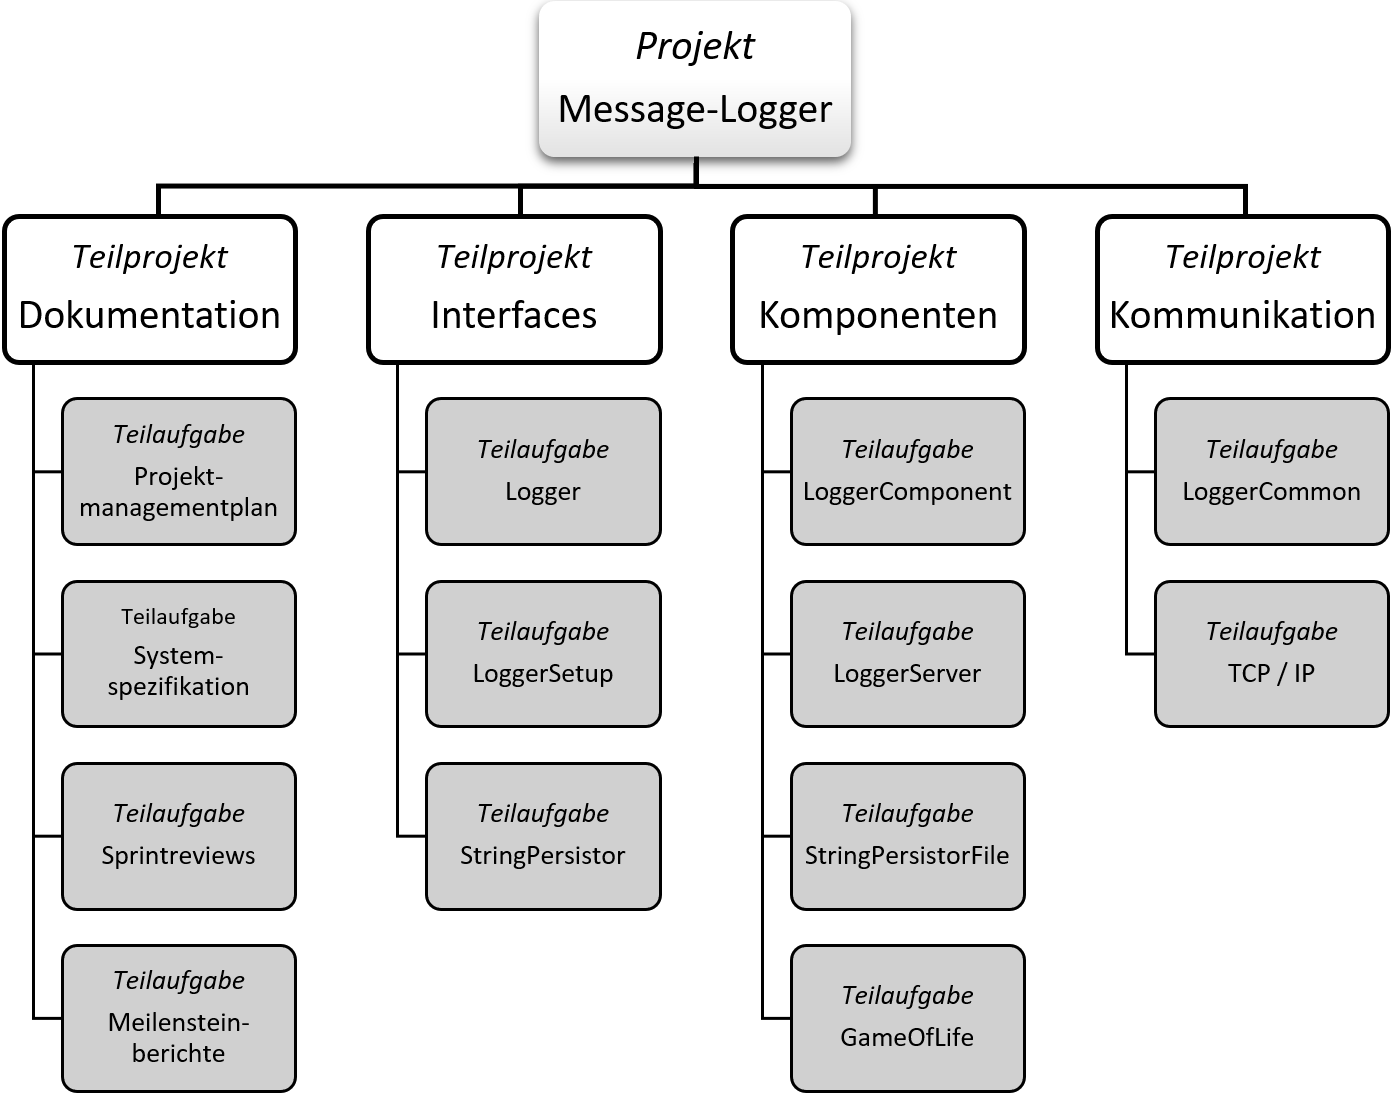
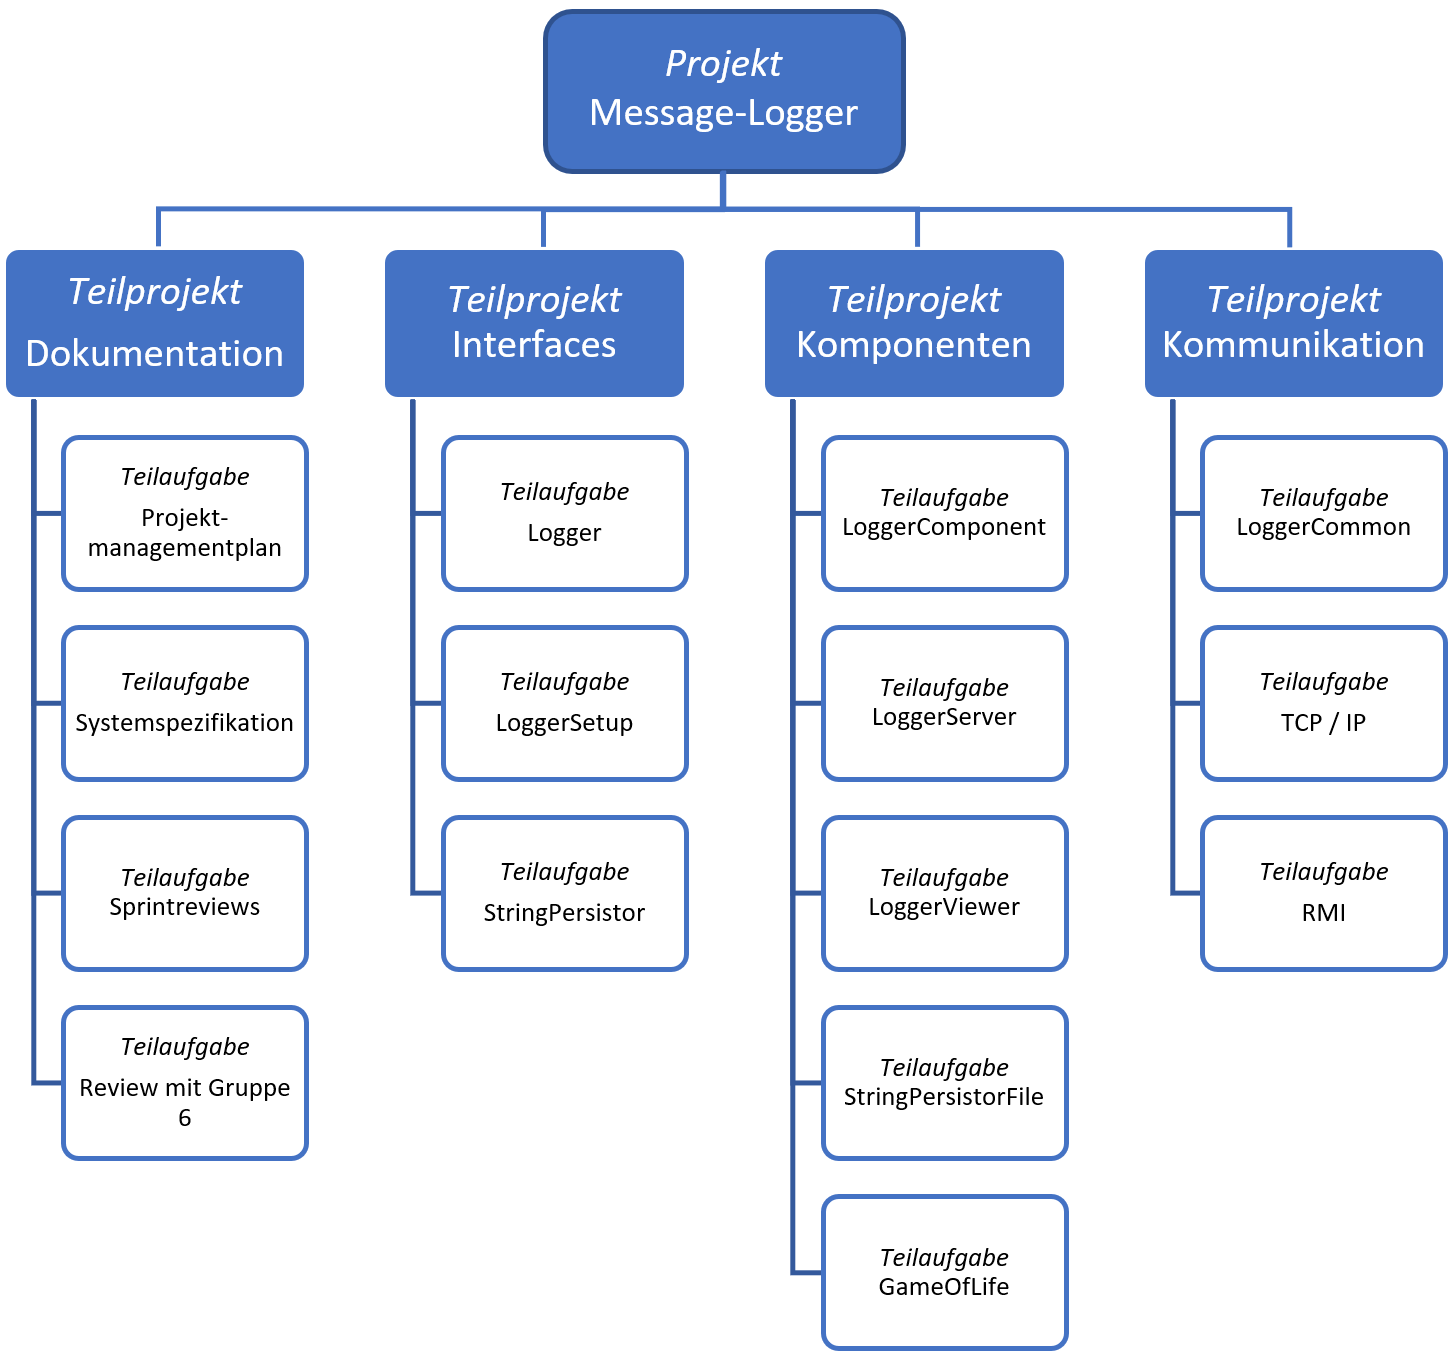
PMP und Scrum-Dokumente für Schlussabgabe verbessert

diff --git a/Projektmanagementplan/Projektmanagementplan.md b/Projektmanagementplan/Projektmanagementplan.md
@@ -4,11 +4,17 @@ subtitle: Version 1.0.0
 author: Gruppe 5 (Patrick Bucher, Pascal Kiser, Fabian Meyer, Sascha Sägesser)
 ---
 
+# TODOs
+
+- Evtl. Risikomanagement updaten
+- Aufwandschätzung Schlussabgabe einfügen
+- Releasemanagement für Release 2 vervollständigen
+
 # Projektorganisation
 
 ## Organisationsplan
 
-![Organigramm](img/Organigramm.png){#organigramm}
+![Organigramm](img/Organigramm.png){#organigramm width=50%}
 
 Siehe Abbildung [Organigramm](#organigramm).
 
@@ -45,20 +51,17 @@ Das komplette Projekt ist in drei Meilensteine aufgeteilt. Der erste Meilenstein
     - ProductBacklog
     - Sprintplanung S1/S2
     - Detailplanung S1
-    - Meilensteinbericht MS 2
 2. **Meilenstein (Zwischenabgabe, 08.04.2018)**
     - Release 1 gemäss Muss-Features deployed und lauffähig
     - Sprintplanung S3/S4
-    - Meilensteinbericht MS 3
 3. **Meilenstein (Schlussabgabe, 13.05.2018)**
     - Release 2 gemäss Muss-Features deployed und lauffähig
-    - Meilensteinbericht MS 4
 
 ## Sprintplan
 
 Die Projektdurchführung (MS 2 / 3) ist in vier Sprints aufgeteilt. Für die einzelnen Sprints sind Endtermin und Deliverables wie folgt festgelegt:
 
-1. Sprint (25.03.2018): Sprintreview S1, Sprintplanung S2 
+1. Sprint (25.03.2018): Sprintreview S1, Sprintplanung S2
 2. Sprint (08.04.2018): Sprintreview S2, Sprintplanung S3
 3. Sprint (29.04.2018): Sprintreview S3, Sprintplanung S4
 4. Sprint (13.05.2018): Sprintreview S4
@@ -69,7 +72,7 @@ Jeder Sprint dauert zwei Wochen. Die detaillierte Sprintplanung ist mittels des 
 
 Um das Projekt besser planen, durchzuführen und kontrollieren zu können, ist dieses in mehrere Teilprojekte, welche wiederum in Teilaufgaben gegliedert sind, aufgeteilt (siehe Abbildung [Projektstrukturplan](#projektstrukturplan)).
 
-![Projektstrukturplan](img/Projektstrukturplan.png){#projektstrukturplan width=80%}
+![Projektstrukturplan](img/projektstrukturplan.png){#projektstrukturplan width=80%}
 
 ## Risikomanagement
 
@@ -144,7 +147,6 @@ Für die Projektkontrolle sind folgende Tools und Methoden im Einsatz:
 - Backlog-Grooming
 - Definierung von Definition of Done der Tasks
 - Sprintreviews
-- Meilensteinberichte
 
 ## Aufwandschätzung
 
@@ -158,7 +160,24 @@ Der Aufwand wird weiterhin in folgende Kategorien unterteilt:
 - Testing
 - Reviewing
 
-Für die Zwischenabgabe besteht keine detaillierte Aufwandschätzung. Für die Schlussabgabe wird jedoch eine erstellt.
+### Zwischenabgabe
+
+Für die Zwischenabgabe besteht keine detaillierte Aufwandschätzung.
+
+### Schlussabgabe
+
+TODO Aufwandschätzung einfügen
+
+## Defition of Done
+
+Um gruppenintern klarstellen zu können, wann ein Task als erfüllt gilt, sind mehrere Definition of Done definiert worden.
+
+- Funktionalität vom Product Owner abgenommen.
+- Code-Review von mindestens einem Teammitglied durchgeführt.
+- Bestehende Tests erfolgreich durchgelaufen.
+- Eingeführte Features sind in der Projektdokumentation vermerkt.
+- Änderungen in GitLab eingecheckt.
+- Build auf Jenkins funktioniert.
 
 # Projektunterstützung
 

diff --git a/Scrum/Scrum.md b/Scrum/Scrum.md
@@ -5,6 +5,12 @@ date: 03.04.2018
 author: Gruppe 5 (Patrick Bucher, Pascal Kiser, Fabian Meyer, Sascha Sägesser)
 ---
 
+# TODOs
+
+- Stories entfernen + Verweis auf ScrumDo
+- Sprintreview 3 und 4 einfügen
+- Meilensteinberichte entfernen
+
 # Stories (nach Epics)
 
 ## Epic Log-Ereignisse
@@ -37,7 +43,7 @@ author: Gruppe 5 (Patrick Bucher, Pascal Kiser, Fabian Meyer, Sascha Sägesser)
 ## Epic Persistenz
 
 16. Log-Aufzeichnung: Als *Administrator* möchte ich *eine verlässliche Aufzeichnung der Log-Ereignisse auf dem Server*, um *die Ereignisse aus dem Spiel in korrekter Reihenfolge nachverfolgen zu können*.
-17. Unterscheidung Log-Clients: Als *Administrator* möchte ich *nach Client-Instanz unterscheidbare Logdateien*, um *die Log-Meldungen verschiedener Clients auseinanderhalten zu können*. 
+17. Unterscheidung Log-Clients: Als *Administrator* möchte ich *nach Client-Instanz unterscheidbare Logdateien*, um *die Log-Meldungen verschiedener Clients auseinanderhalten zu können*.
 18. Textdatei-Log: Als *Administrator* möchte ich *Log-Ereignisse in einfachen Textdateien festhalten*, um *diese mit gängigen Werkzeugen betrachten und auswerten zu können (`grep`, `tail`, etc.)*.
 
 ## Epic Format
@@ -63,15 +69,6 @@ author: Gruppe 5 (Patrick Bucher, Pascal Kiser, Fabian Meyer, Sascha Sägesser)
 - Ein *Entwickler* hat Zugriff auf den Quellcode und verfügt über die Fähigkeiten und Berechtigungen um Änderungen daran vorzunehmen.
 - Ein *Administrator* hat Zugang auf beide konzeptionell involvierten Systeme (Client und Server) und Zugriff auf die Konfigurationsdateien aller involvierter Komponenten.
 - Ein *Anwender* kann das Spiel auf dem Client ausführen, kann aber keine Änderungen an Quellcode und Konfigurationsdateien vornehmen und nicht auf den Server zugreifen.
-
-# Definition of Done
-
-- Funktionalität vom Product Owner abgenommen.
-- Code-Review von mindestens einem Teammitglied durchgeführt.
-- Bestehende Tests erfolgreich durchgelaufen.
-- Eingeführte Features sind in der Projektdokumentation vermerkt.
-- Änderungen in GitLab eingecheckt.
-- Build auf Jenkins funktioniert.
 
 # Sprintreviews
 
@@ -130,7 +127,7 @@ Im Sprint 1 wurden noch keine Tests vorgenommen.
 | V6-03    | Aufzeichnung von Exceptions                     | Done   |
 | V6-05    | Codiertes Filter-Level                          | Done   |
 | V6-07    | Logger-Interface                                | Done   |
-| V6-06    | Konfiguriertes Filter-Level                     | Done   | 
+| V6-06    | Konfiguriertes Filter-Level                     | Done   |
 
 Im zweiten Sprint konnten sämtliche Scrum-Stories umgesetzt werden, welche für diesen Sprint vorgesehen waren. Zusätzlich konnte der Rückstand aus Sprint 1 aufgeholt werden. Als Artefakte konnten der Testplan und die TCP-Schnittstelle dokumentiert werden.
 
